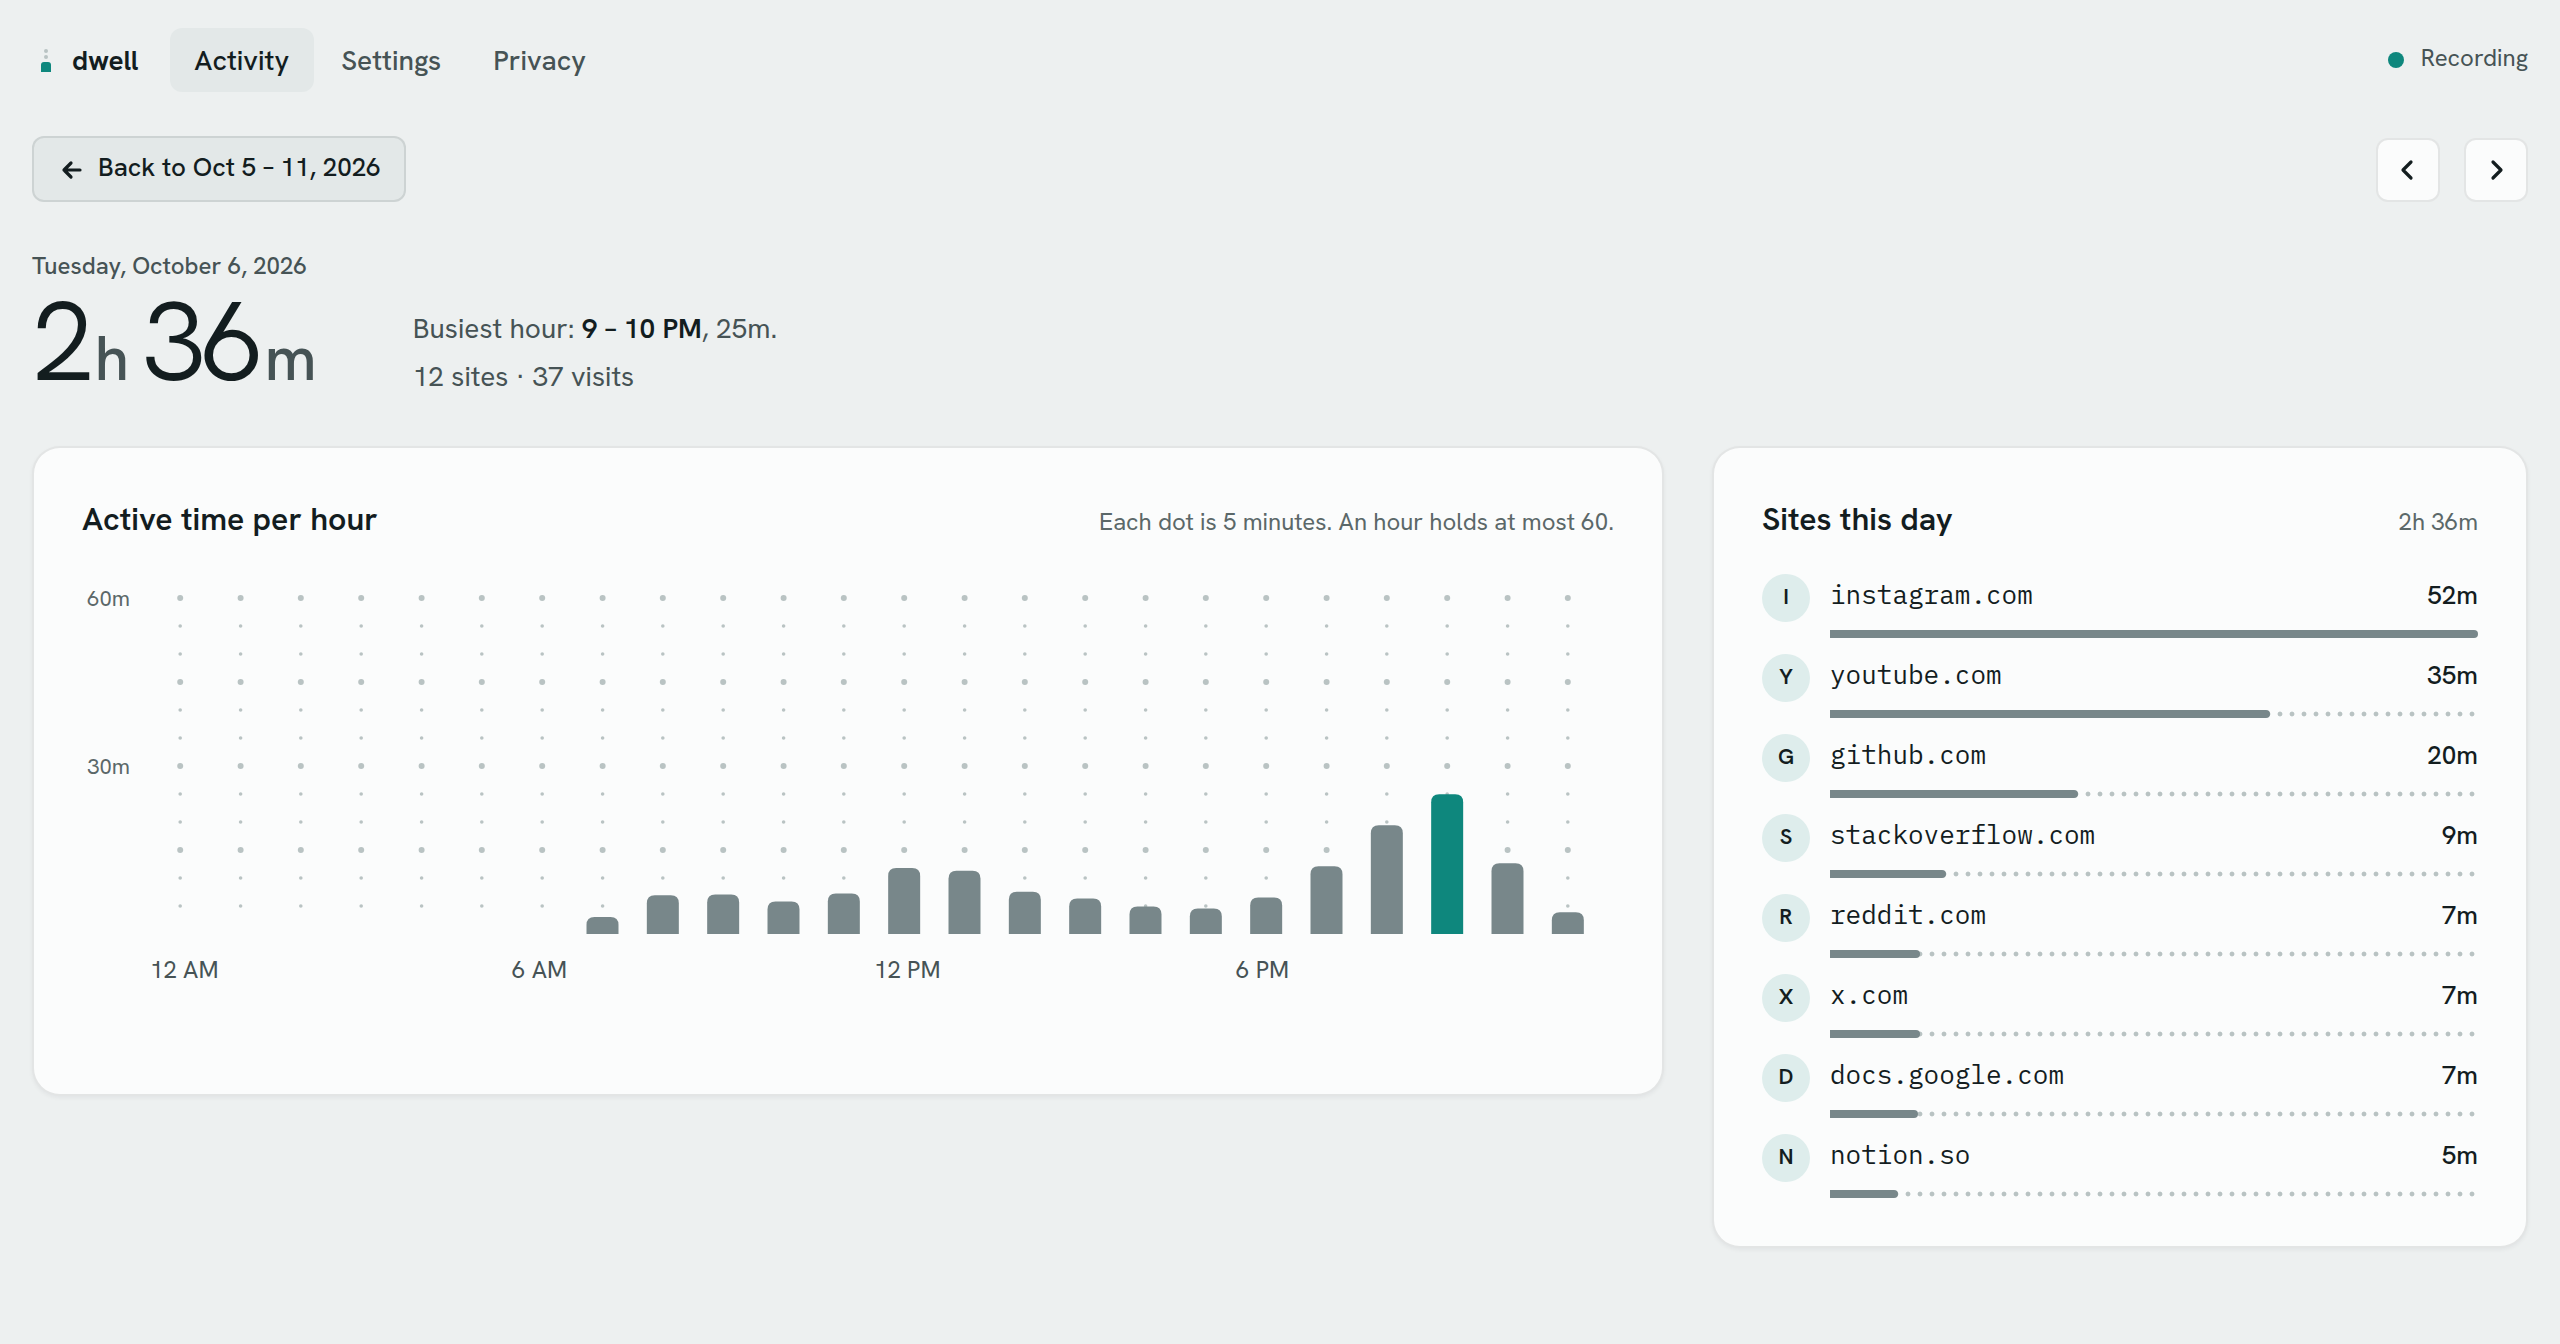
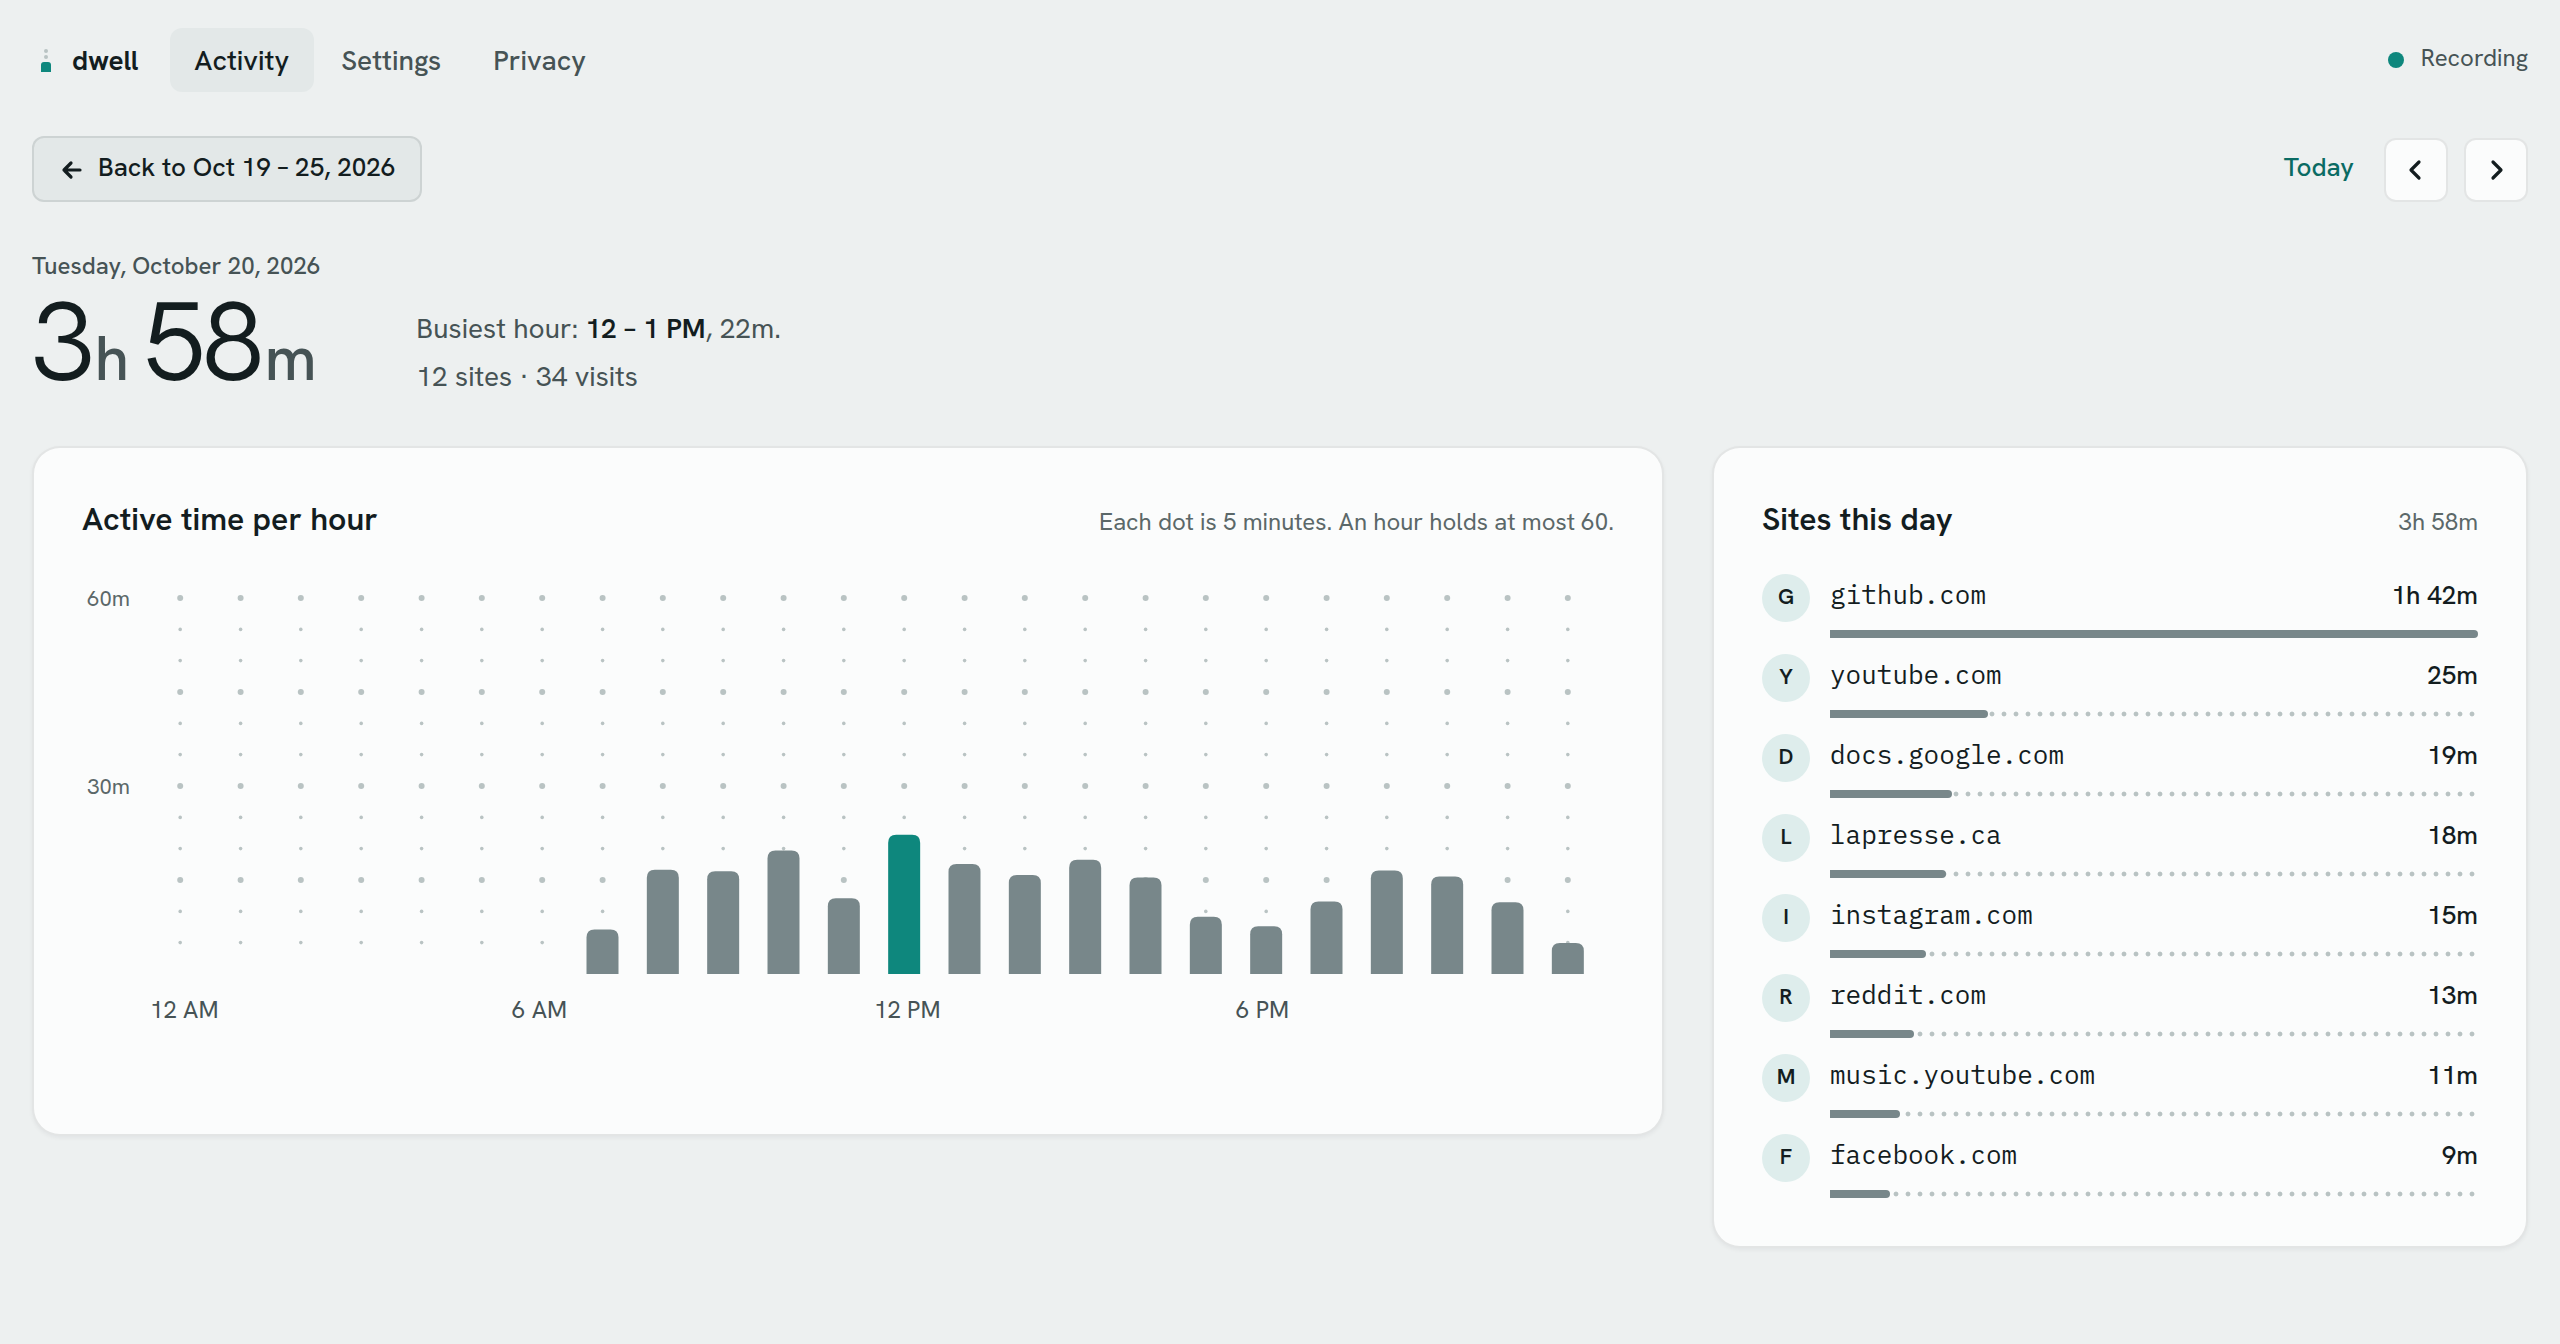
docs(screenshots): focused week and day shots, and the week and day as they now draw

diff --git a/scripts/screenshots.ts b/scripts/screenshots.ts
@@ -48,6 +48,8 @@ const SHOTS: readonly Shot[] = [
   { file: 'dashboard-week-light.png', theme: 'light', hash: '#week/1' },
   { file: 'dashboard-week-dark.png', theme: 'dark', hash: '#week/1' },
   { file: 'dashboard-day-light.png', theme: 'light', hash: `#day/${lastTuesday()}` },
+  { file: 'dashboard-week-focus-light.png', theme: 'light', hash: '#week/1?site=instagram.com' },
+  { file: 'dashboard-day-focus-light.png', theme: 'light', hash: `#day/${lastTuesday()}?site=instagram.com` },
   { file: 'dashboard-settings-light.png', theme: 'light', hash: '#settings' },
   { file: 'dashboard-privacy-light.png', theme: 'light', hash: '#privacy' },
 ];
